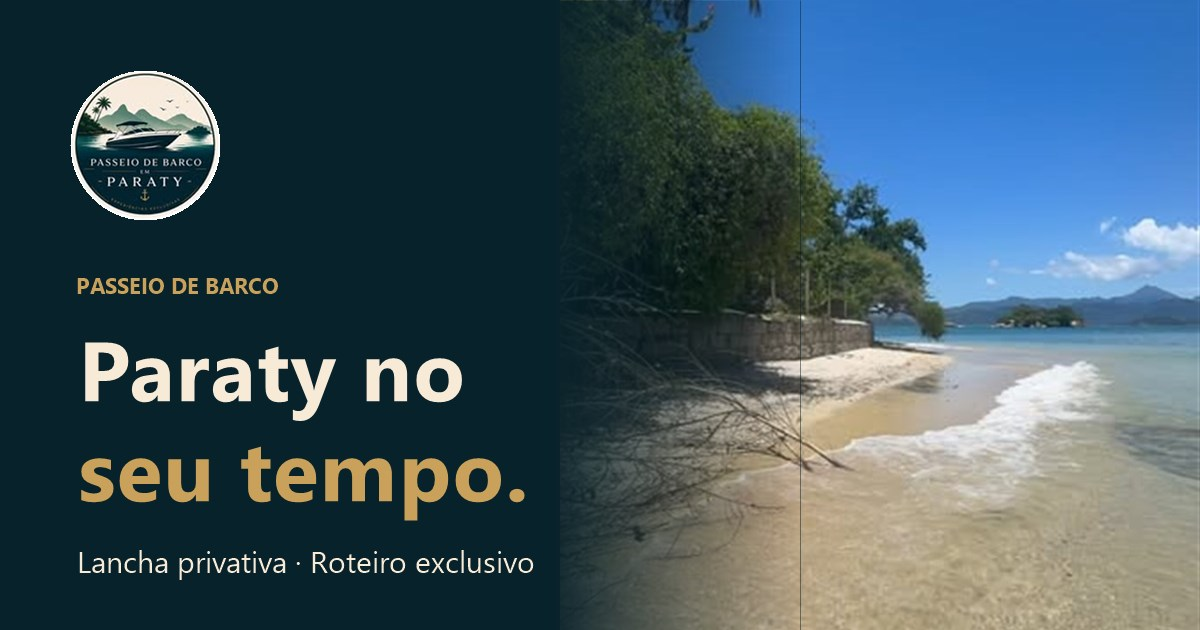
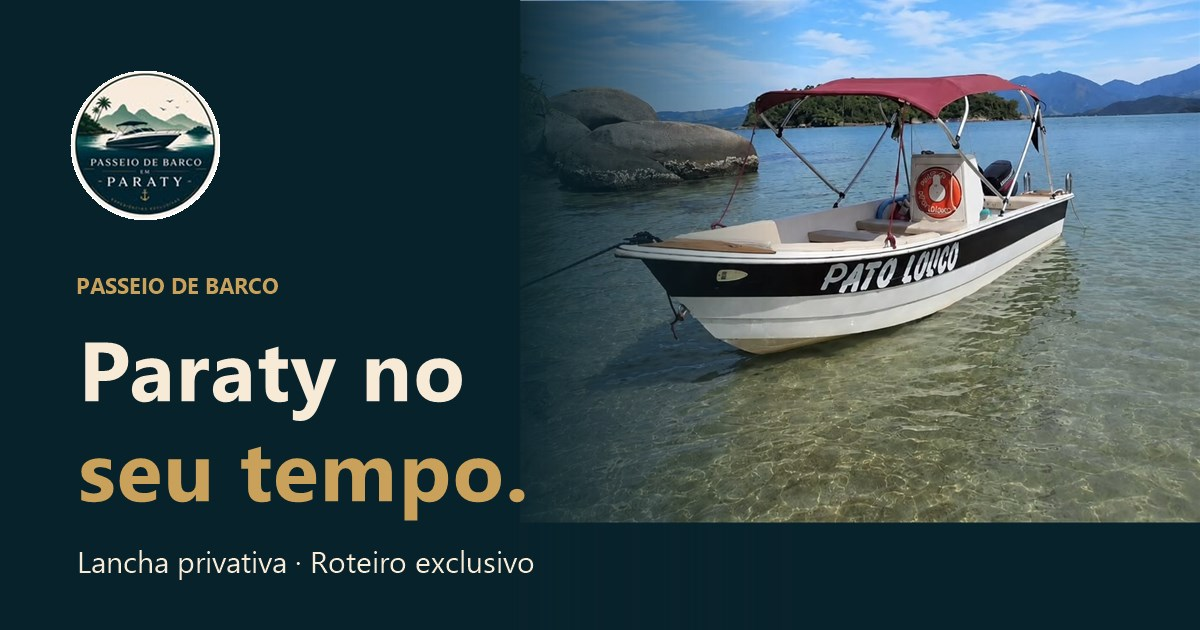
Fotos 1080px do carrossel no hero e cards

diff --git a/index.html b/index.html
@@ -50,7 +50,7 @@ a{color:inherit;text-decoration:none}
 /* hero */
 .hero{position:relative;background:var(--navy)}
 .hero .ph{position:relative;height:62svh;min-height:380px;overflow:hidden}
-.hero .ph img{width:100%;height:120%;object-fit:cover;object-position:50% 40%;will-change:transform;transform:scale(1.12);transition:transform 1.6s cubic-bezier(.2,.7,.2,1)}
+.hero .ph img{width:100%;height:120%;object-fit:cover;object-position:48% 62%;will-change:transform;transform:scale(1.12);transition:transform 1.6s cubic-bezier(.2,.7,.2,1)}
 .hero.go .ph img{transform:scale(1)}
 .hero .ph:after{content:"";position:absolute;inset:0;background:linear-gradient(180deg,rgba(8,34,43,.45) 0%,transparent 28%,transparent 60%,var(--navy) 100%)}
 .hero .tx{position:relative;margin-top:-70px;padding-bottom:44px}
@@ -151,7 +151,7 @@ footer a{color:var(--gold);display:inline-flex;align-items:center;min-height:44p
 
 <main id="topo">
 <div class="hero" id="hero">
-  <div class="ph"><img src="img/hero.jpg" alt="Praia de águas claras em Paraty, com mar azul e ilhas ao fundo" fetchpriority="high"></div>
+  <div class="ph"><img src="img/hero.jpg" alt="Lancha ancorada em águas cristalinas de Paraty, com ilhas e montanhas ao fundo" fetchpriority="high"></div>
   <span class="seal">★ Lancha privativa · Paraty, RJ</span>
   <div class="wrap tx">
     <span class="tag">Passeio de barco</span>
@@ -210,8 +210,8 @@ footer a{color:var(--gold);display:inline-flex;align-items:center;min-height:44p
     <p class="sub rv">Escolha os lugares ou deixe com a gente.</p>
     <div class="grid g3">
       <div class="card rv"><div class="im"><img src="img/agua.jpg" alt="Água verde-esmeralda e costão com mata" loading="lazy"></div><div class="b"><h3>Água clara</h3><p>Snorkel nas melhores paradas.</p></div></div>
-      <div class="card rv"><div class="im"><img src="img/hero.jpg" alt="Praia deserta com mar calmo" loading="lazy"></div><div class="b"><h3>Praias quietas</h3><p>Chegue onde o barco grande não chega.</p></div></div>
-      <div class="card rv"><div class="im"><img src="img/ilha.jpg" alt="Ilha com casa e palmeiras" loading="lazy"></div><div class="b"><h3>Ilhas e restaurantes</h3><p>Almoço opcional na rota.</p></div></div>
+      <div class="card rv"><div class="im"><img src="img/praia.jpg" alt="Praia deserta com mar calmo" loading="lazy"></div><div class="b"><h3>Praias quietas</h3><p>Chegue onde o barco grande não chega.</p></div></div>
+      <div class="card rv"><div class="im"><img src="img/bordo.jpg" alt="Proa da lancha com almofadas, máscara de snorkel e frescobol" loading="lazy"></div><div class="b"><h3>Conforto a bordo</h3><p>Snorkel, frescobol e sombra.</p></div></div>
     </div>
   </div>
 </section>
